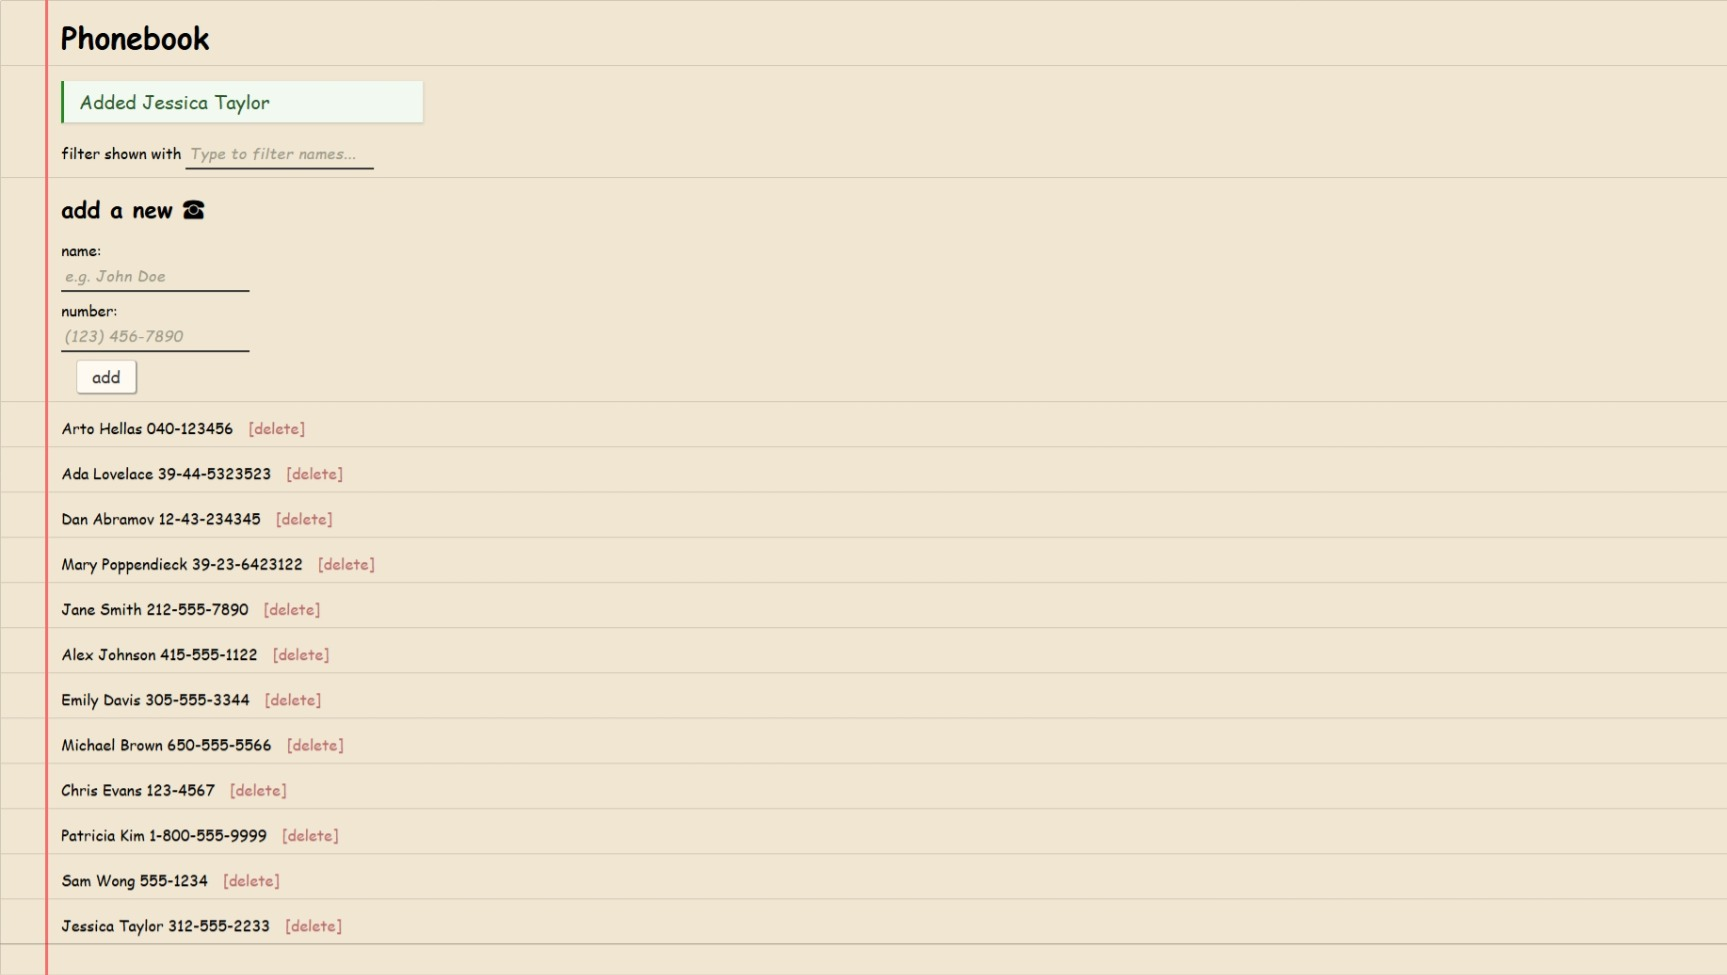
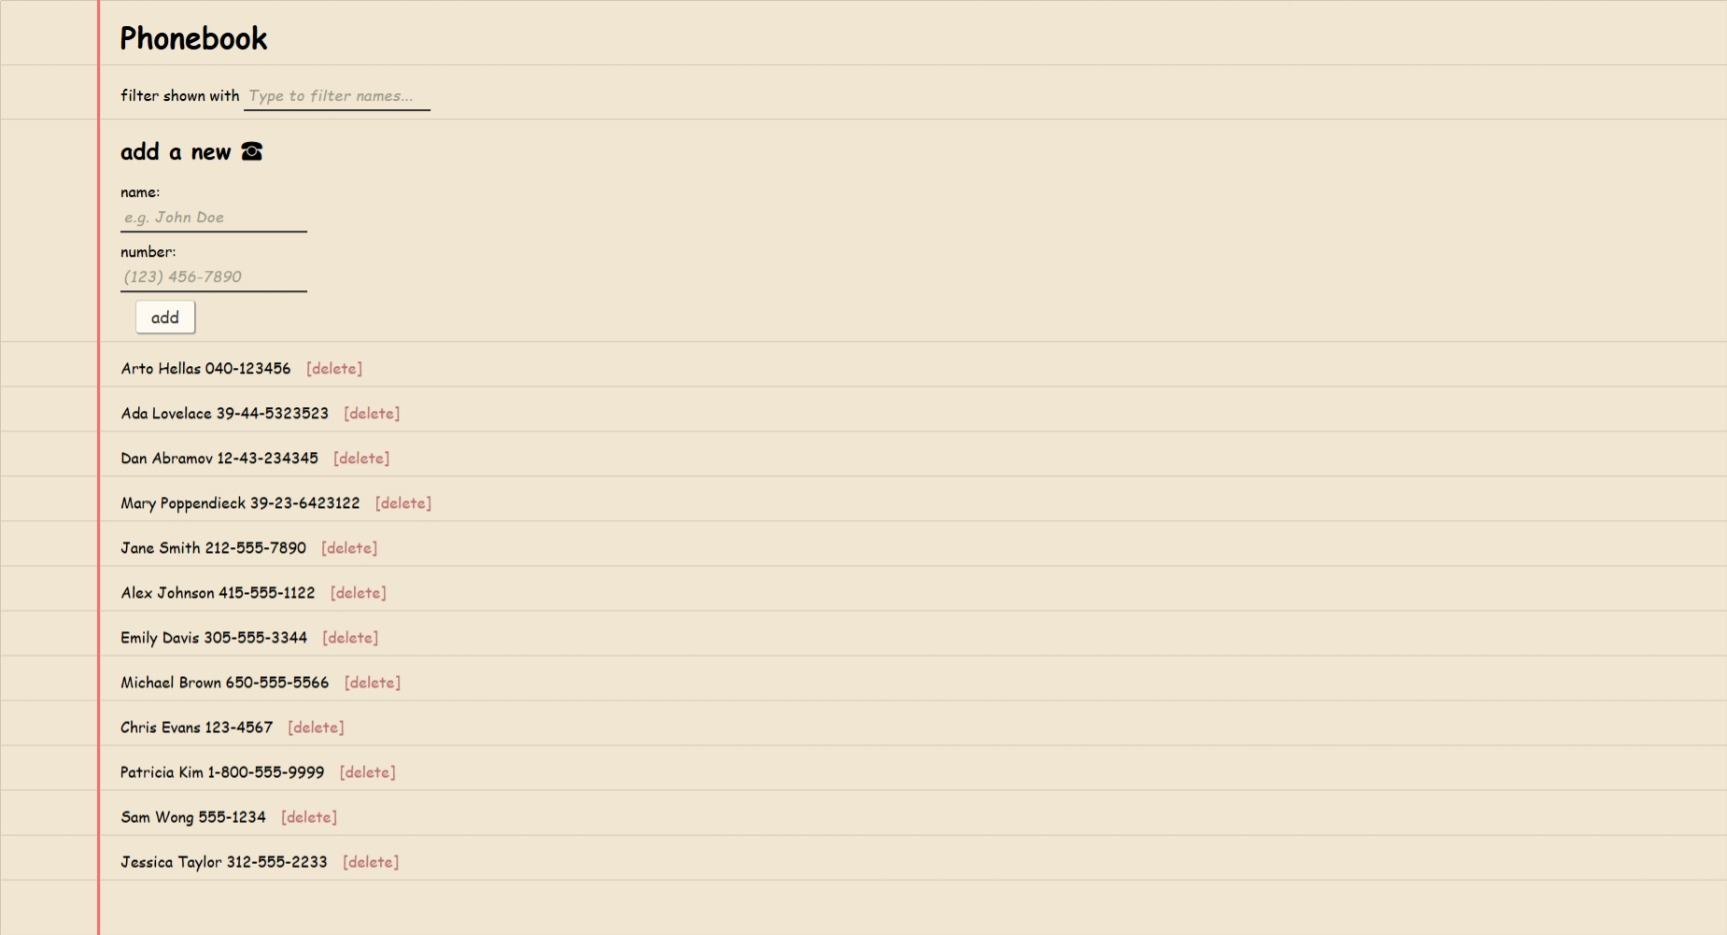
Layout Update

Changed region(s): [[0.0, 0.5273, 0.2455, 0.9925], [0.0307, 0.0, 0.2455, 0.4032], [0.0307, 0.4342, 0.2455, 0.4963]]

diff --git a/part2/phonebook/src/index.css b/part2/phonebook/src/index.css
@@ -105,7 +105,7 @@ main {
 .inner-line {
     position: absolute;
     top: 0;
-    left: 3rem;
+    left: 6.5rem;
     bottom: 0;
     width: 3px;
     min-height: 100vh;
@@ -122,8 +122,9 @@ form {
     margin-bottom: 1rem;
     border-bottom: 1px solid #d1c7b7;
     padding-bottom: 0.5rem;
-    padding-inline: 4rem;
+    padding-inline: 8rem;
 }
+
 
 h2 {
     padding-bottom: 1rem;
@@ -235,4 +236,17 @@ form input {
 .add-btn:active {
     transform: translateY(0);
     box-shadow: none;
+}
+
+@media (max-width: 650px) {
+    .inner-line {
+        left: 3rem;
+    }
+
+    h1,
+    li,
+    .filter,
+    form {
+        padding-inline: 5rem;
+    }
 }
